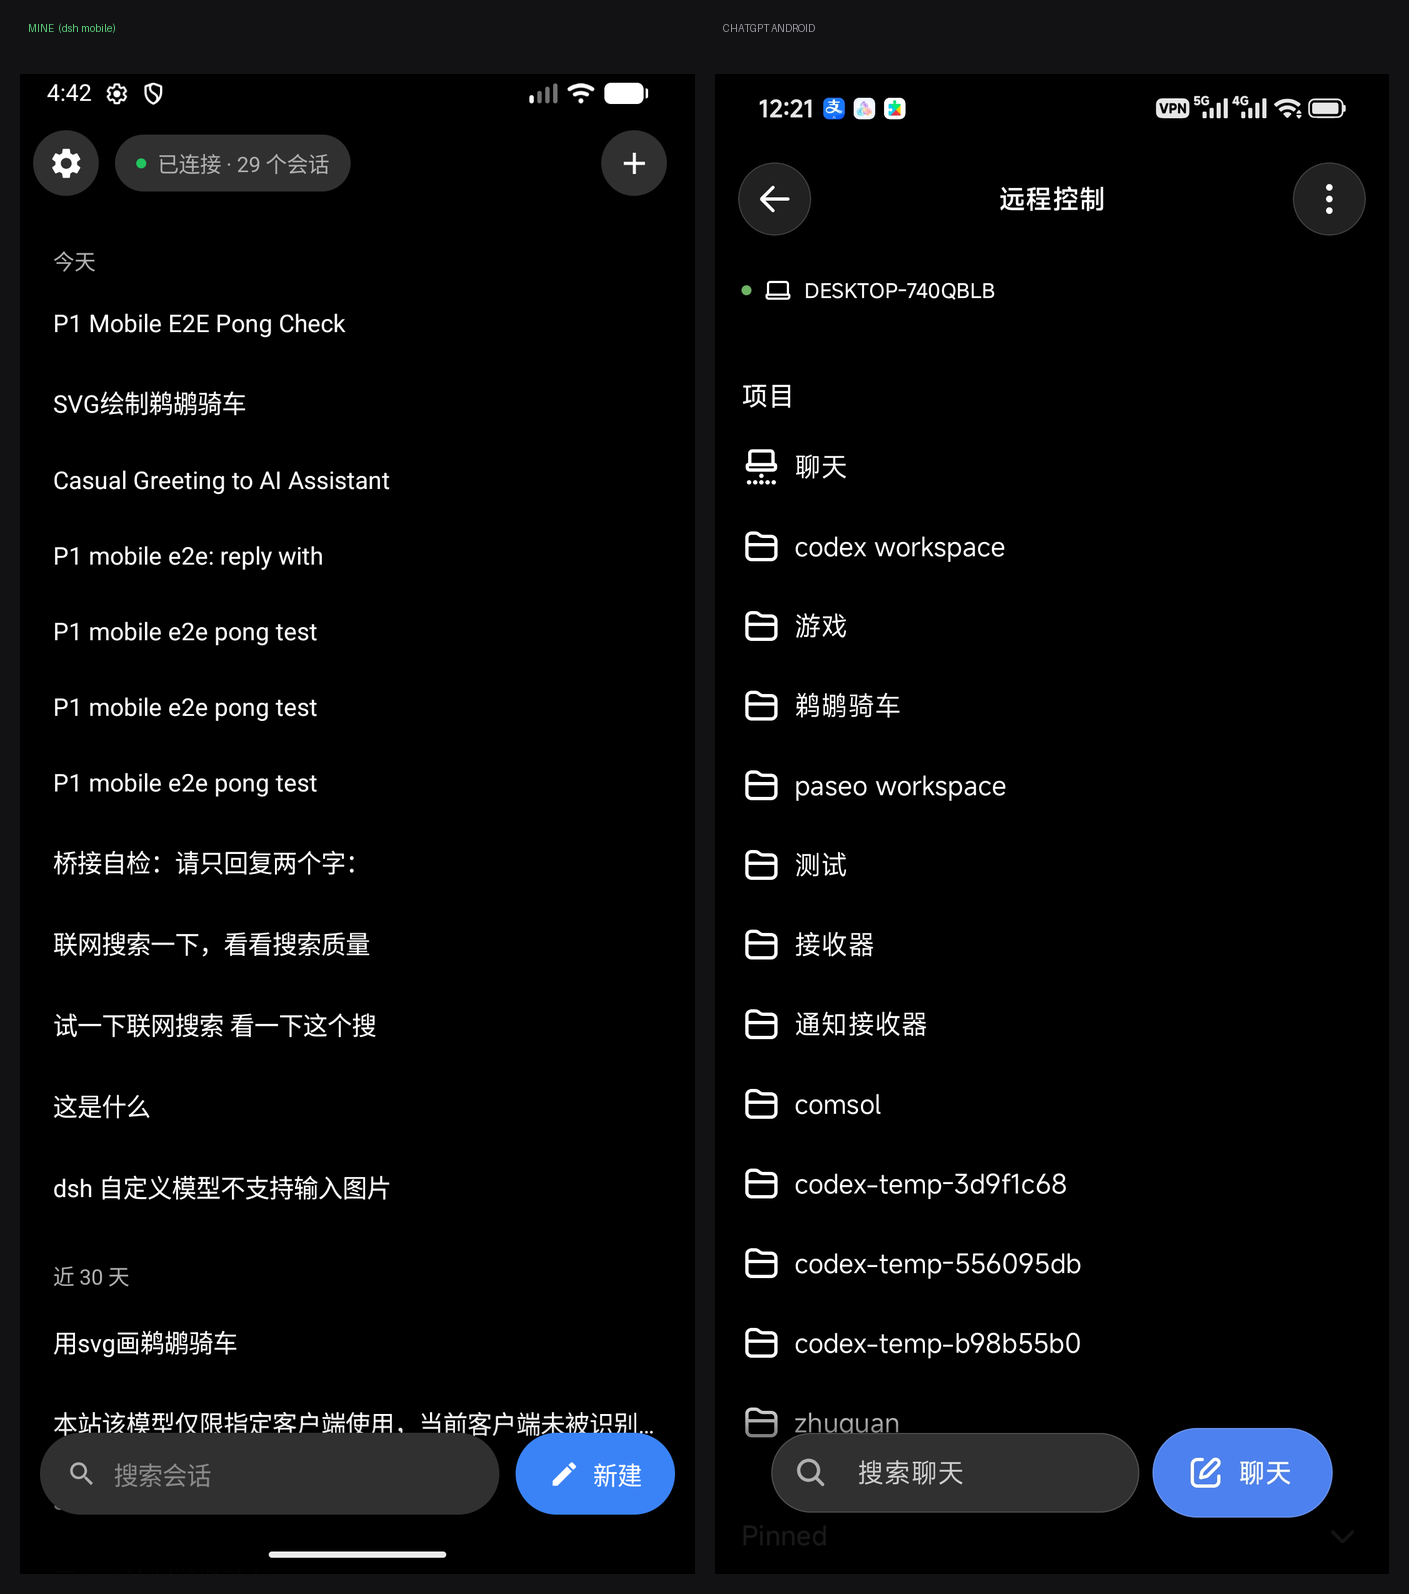
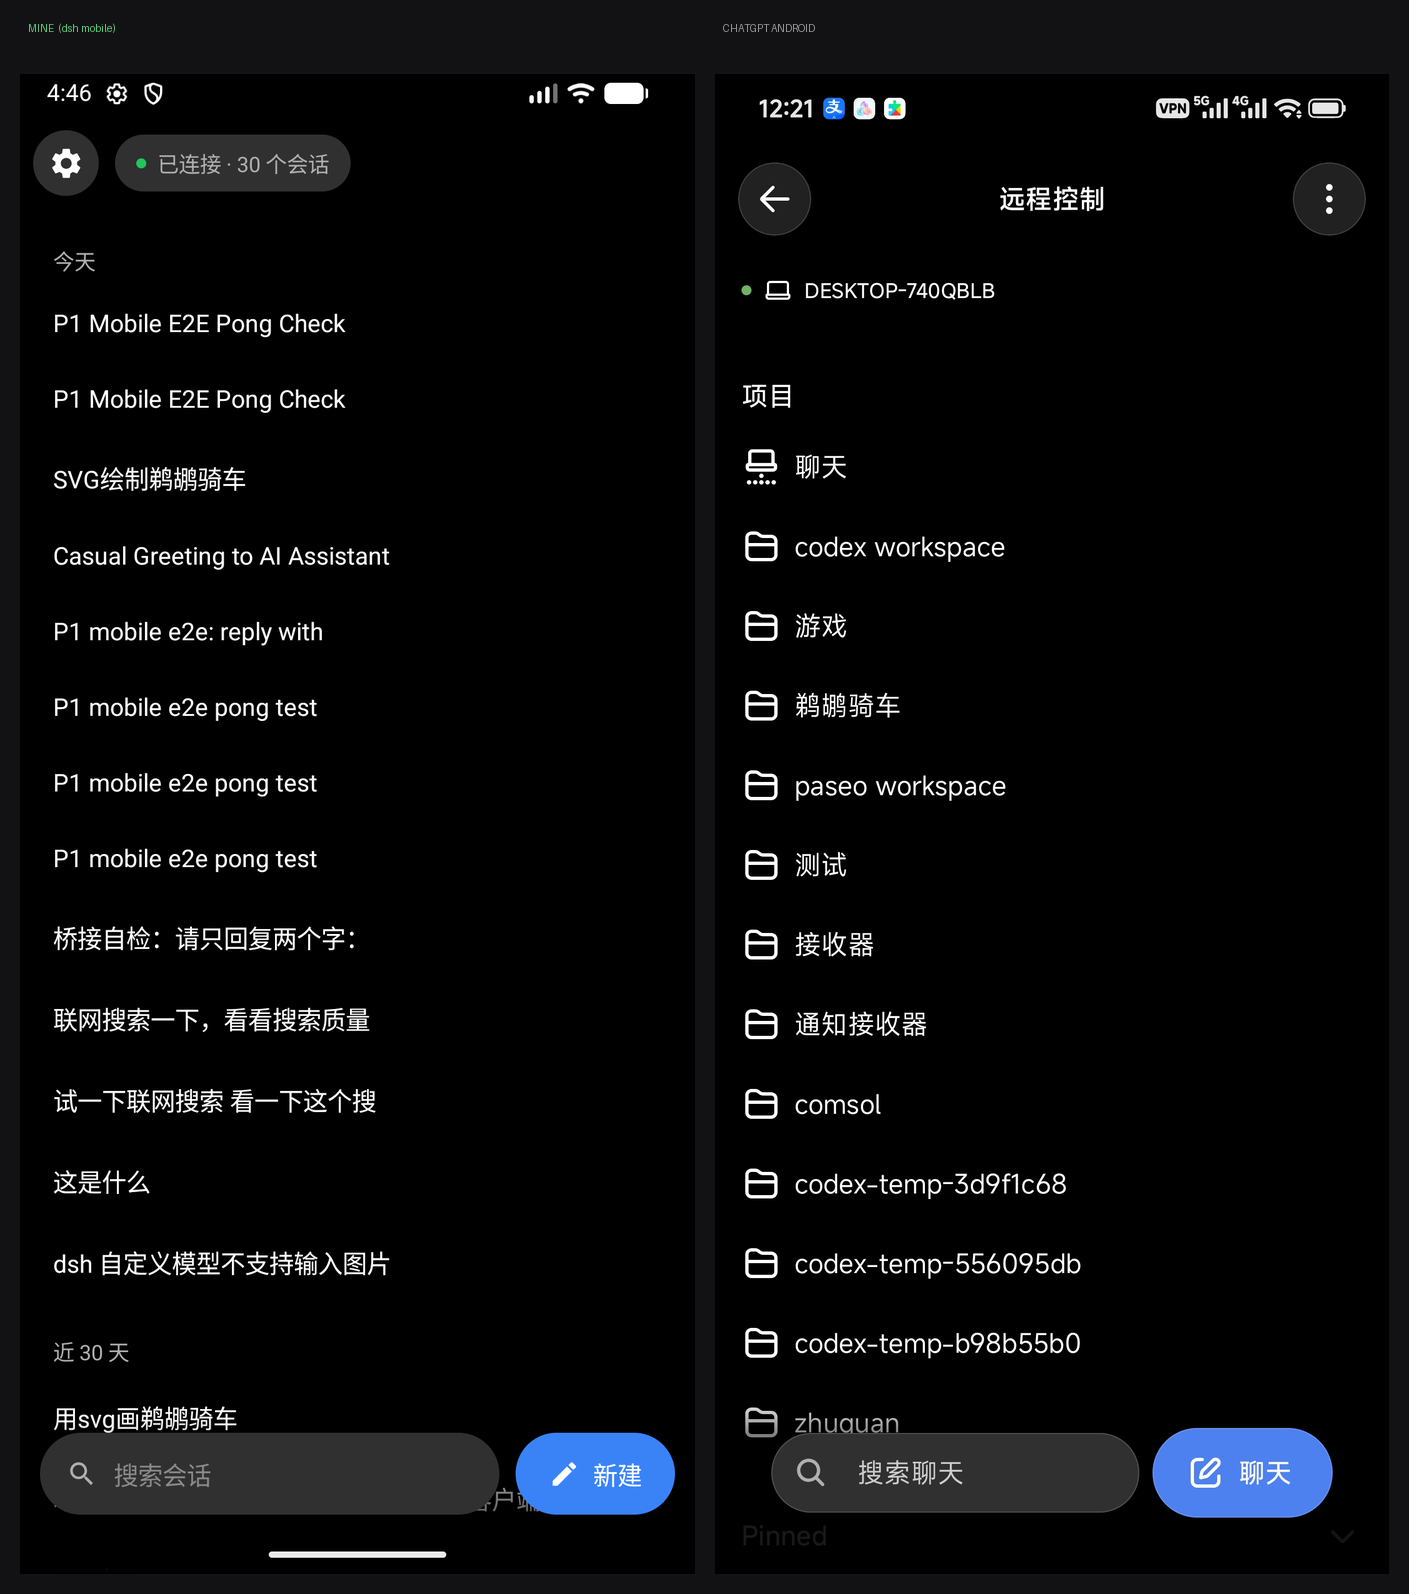
polish: one new-chat entry, dock scrim, popover hairline, action-row spacing
The side-by-side review flagged the duplicate 新建 (top bar + dock) and a hard
edge where the list meets the dock. The dock CTA now carries the 新建会话
semantics, the list fades under a gradient above it, the model popover got its
hairline border and the message action row more breathing room.

docs/ gains the final screenshot set and the MINE-vs-CHATGPT comparisons.

diff --git a/app/src/main/java/com/dsh/mobile/ui/SessionsScreen.kt b/app/src/main/java/com/dsh/mobile/ui/SessionsScreen.kt
@@ -54,6 +54,8 @@ import androidx.compose.ui.focus.FocusRequester
 import androidx.compose.ui.focus.focusRequester
 import androidx.compose.ui.graphics.Color
 import androidx.compose.ui.graphics.SolidColor
+import androidx.compose.ui.semantics.contentDescription
+import androidx.compose.ui.semantics.semantics
 import androidx.compose.ui.text.style.TextAlign
 import androidx.compose.ui.text.style.TextOverflow
 import androidx.compose.ui.unit.dp
@@ -98,10 +100,7 @@ fun SessionsScreen(state: AppState, repo: BridgeRepository) {
                     append(" 个会话")
                 },
                 online = state.connected,
-                modifier = Modifier.weight(1f, fill = false),
             )
-            Spacer(Modifier.weight(1f))
-            CircleButton(Icons.Filled.Add, "新建会话") { repo.createSession() }
         }
 
         Box(Modifier.weight(1f).fillMaxWidth()) {
@@ -231,6 +230,7 @@ private fun PrimaryCta(
             .clip(RoundedCornerShape(999.dp))
             .background(palette.accent)
             .clickable(onClick = onClick)
+            .semantics { contentDescription = "新建会话" }
             .padding(horizontal = 20.dp),
         verticalAlignment = Alignment.CenterVertically,
         horizontalArrangement = Arrangement.spacedBy(8.dp),
